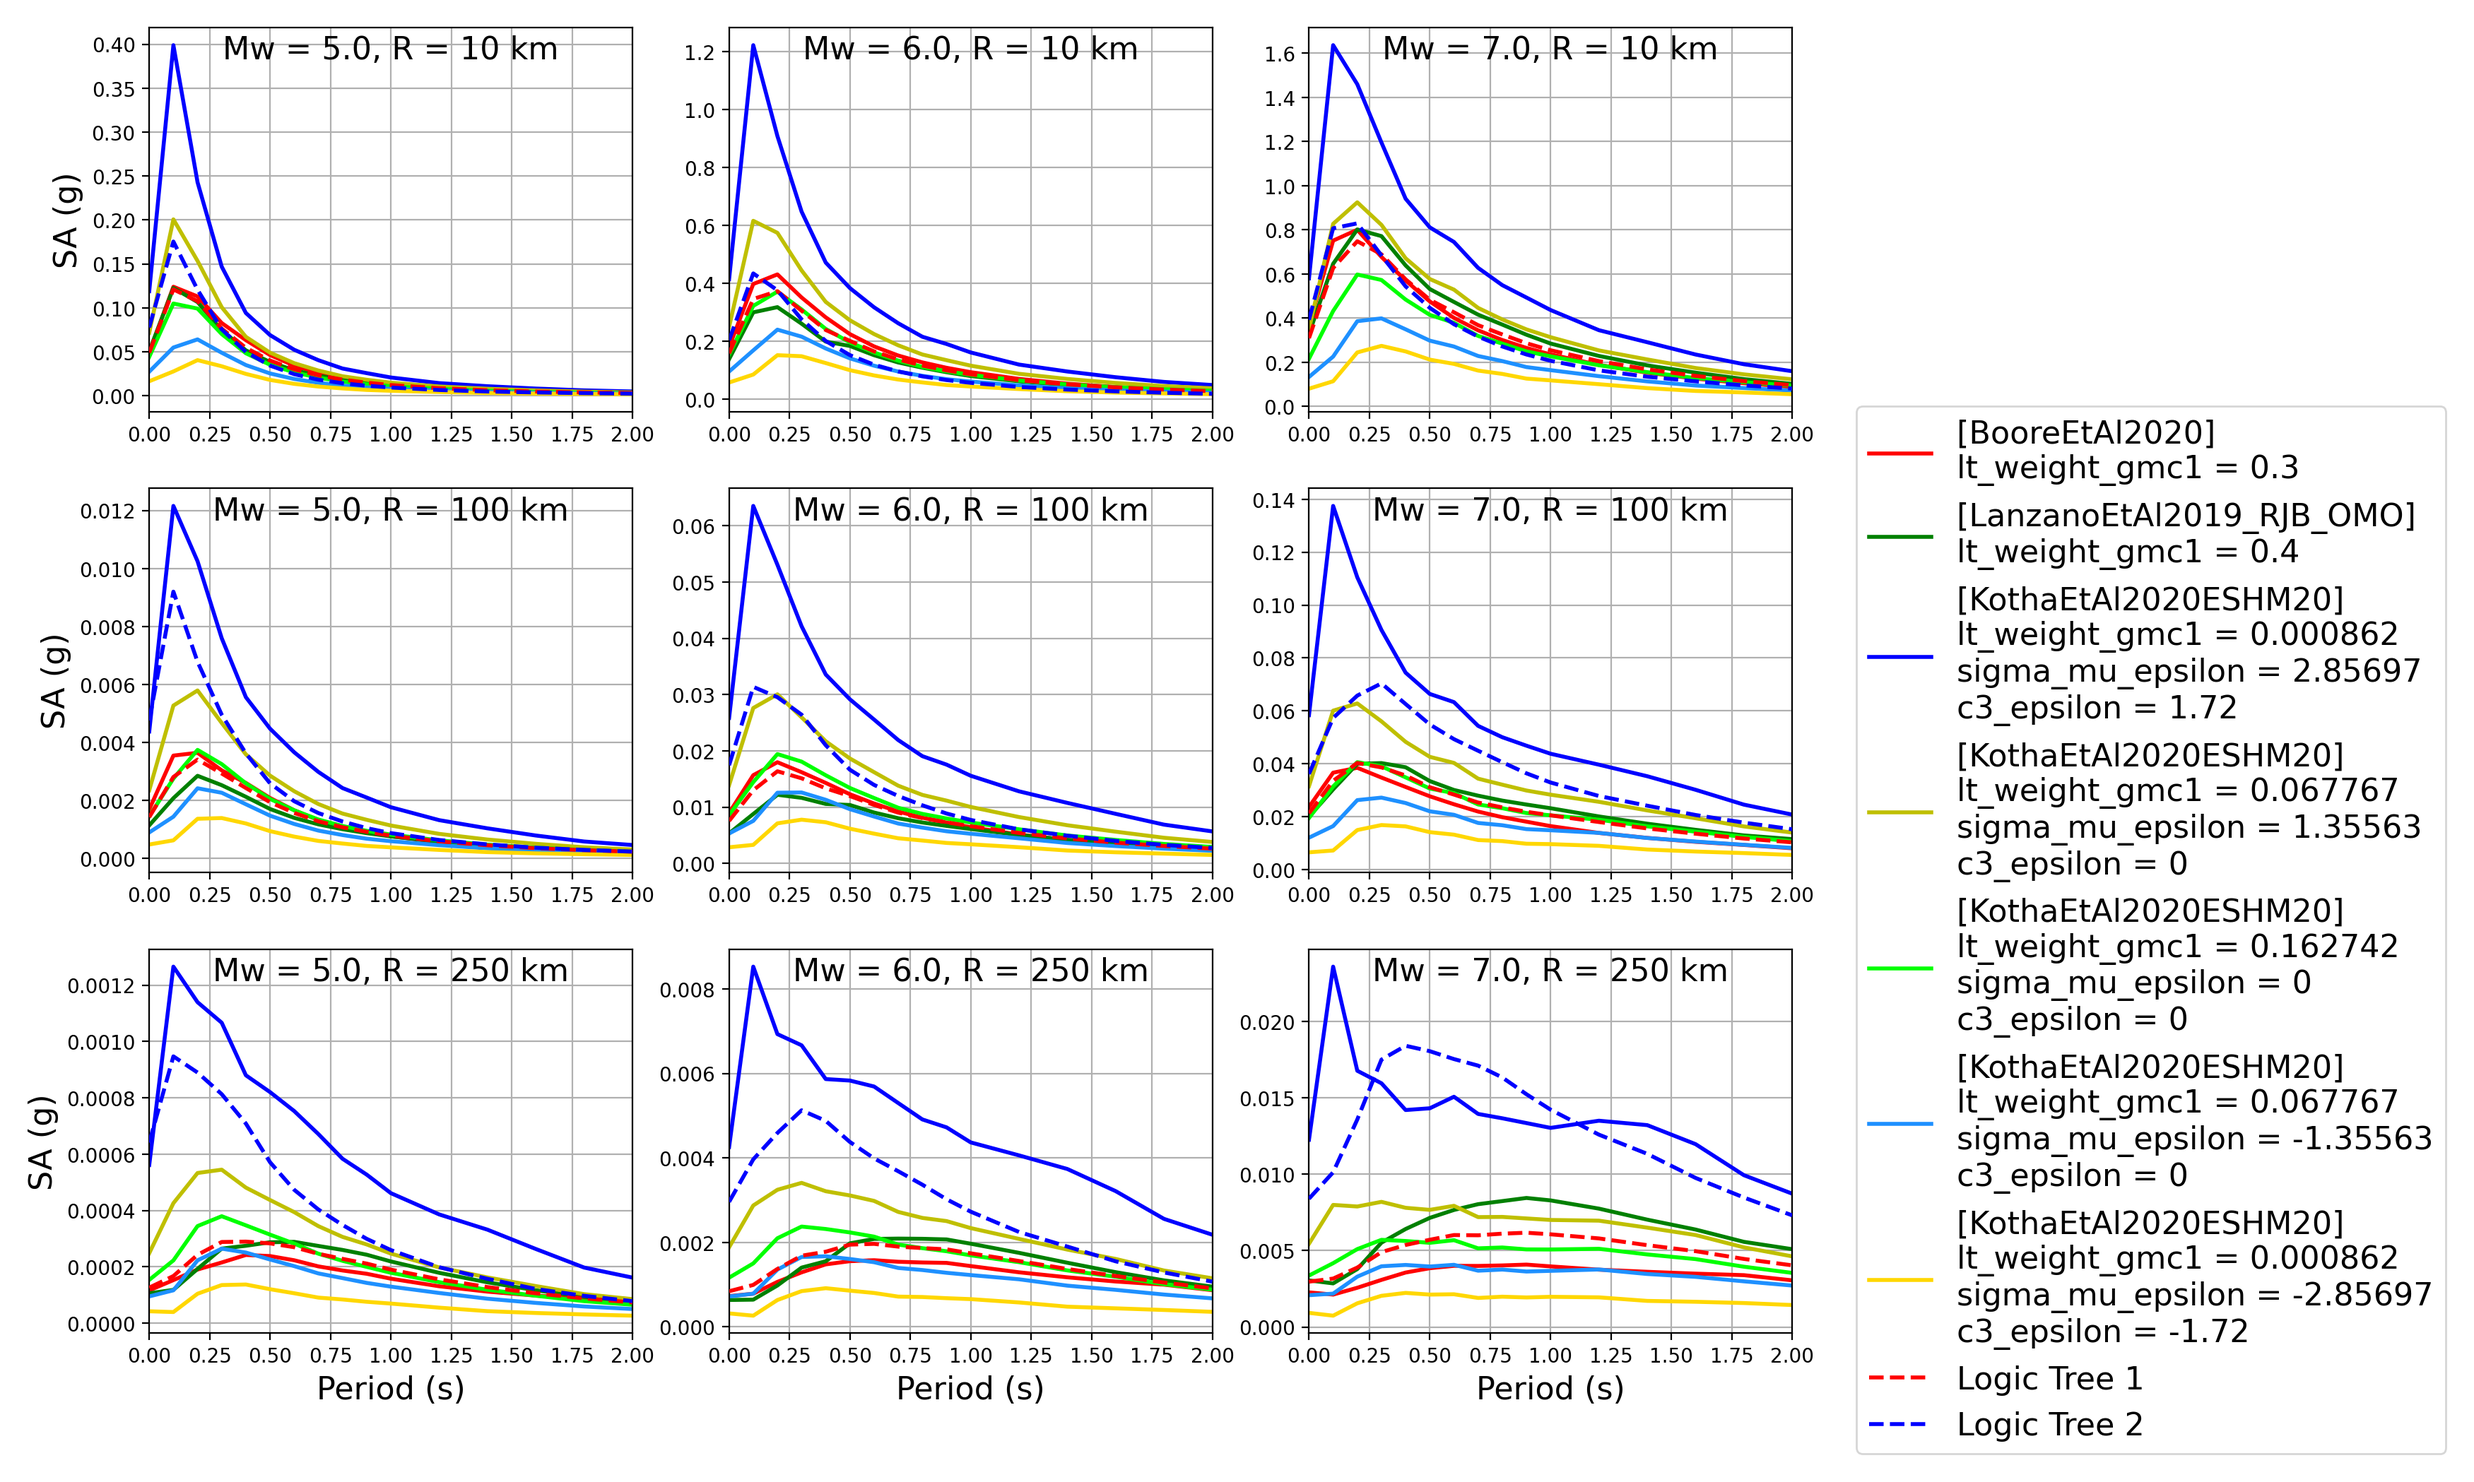
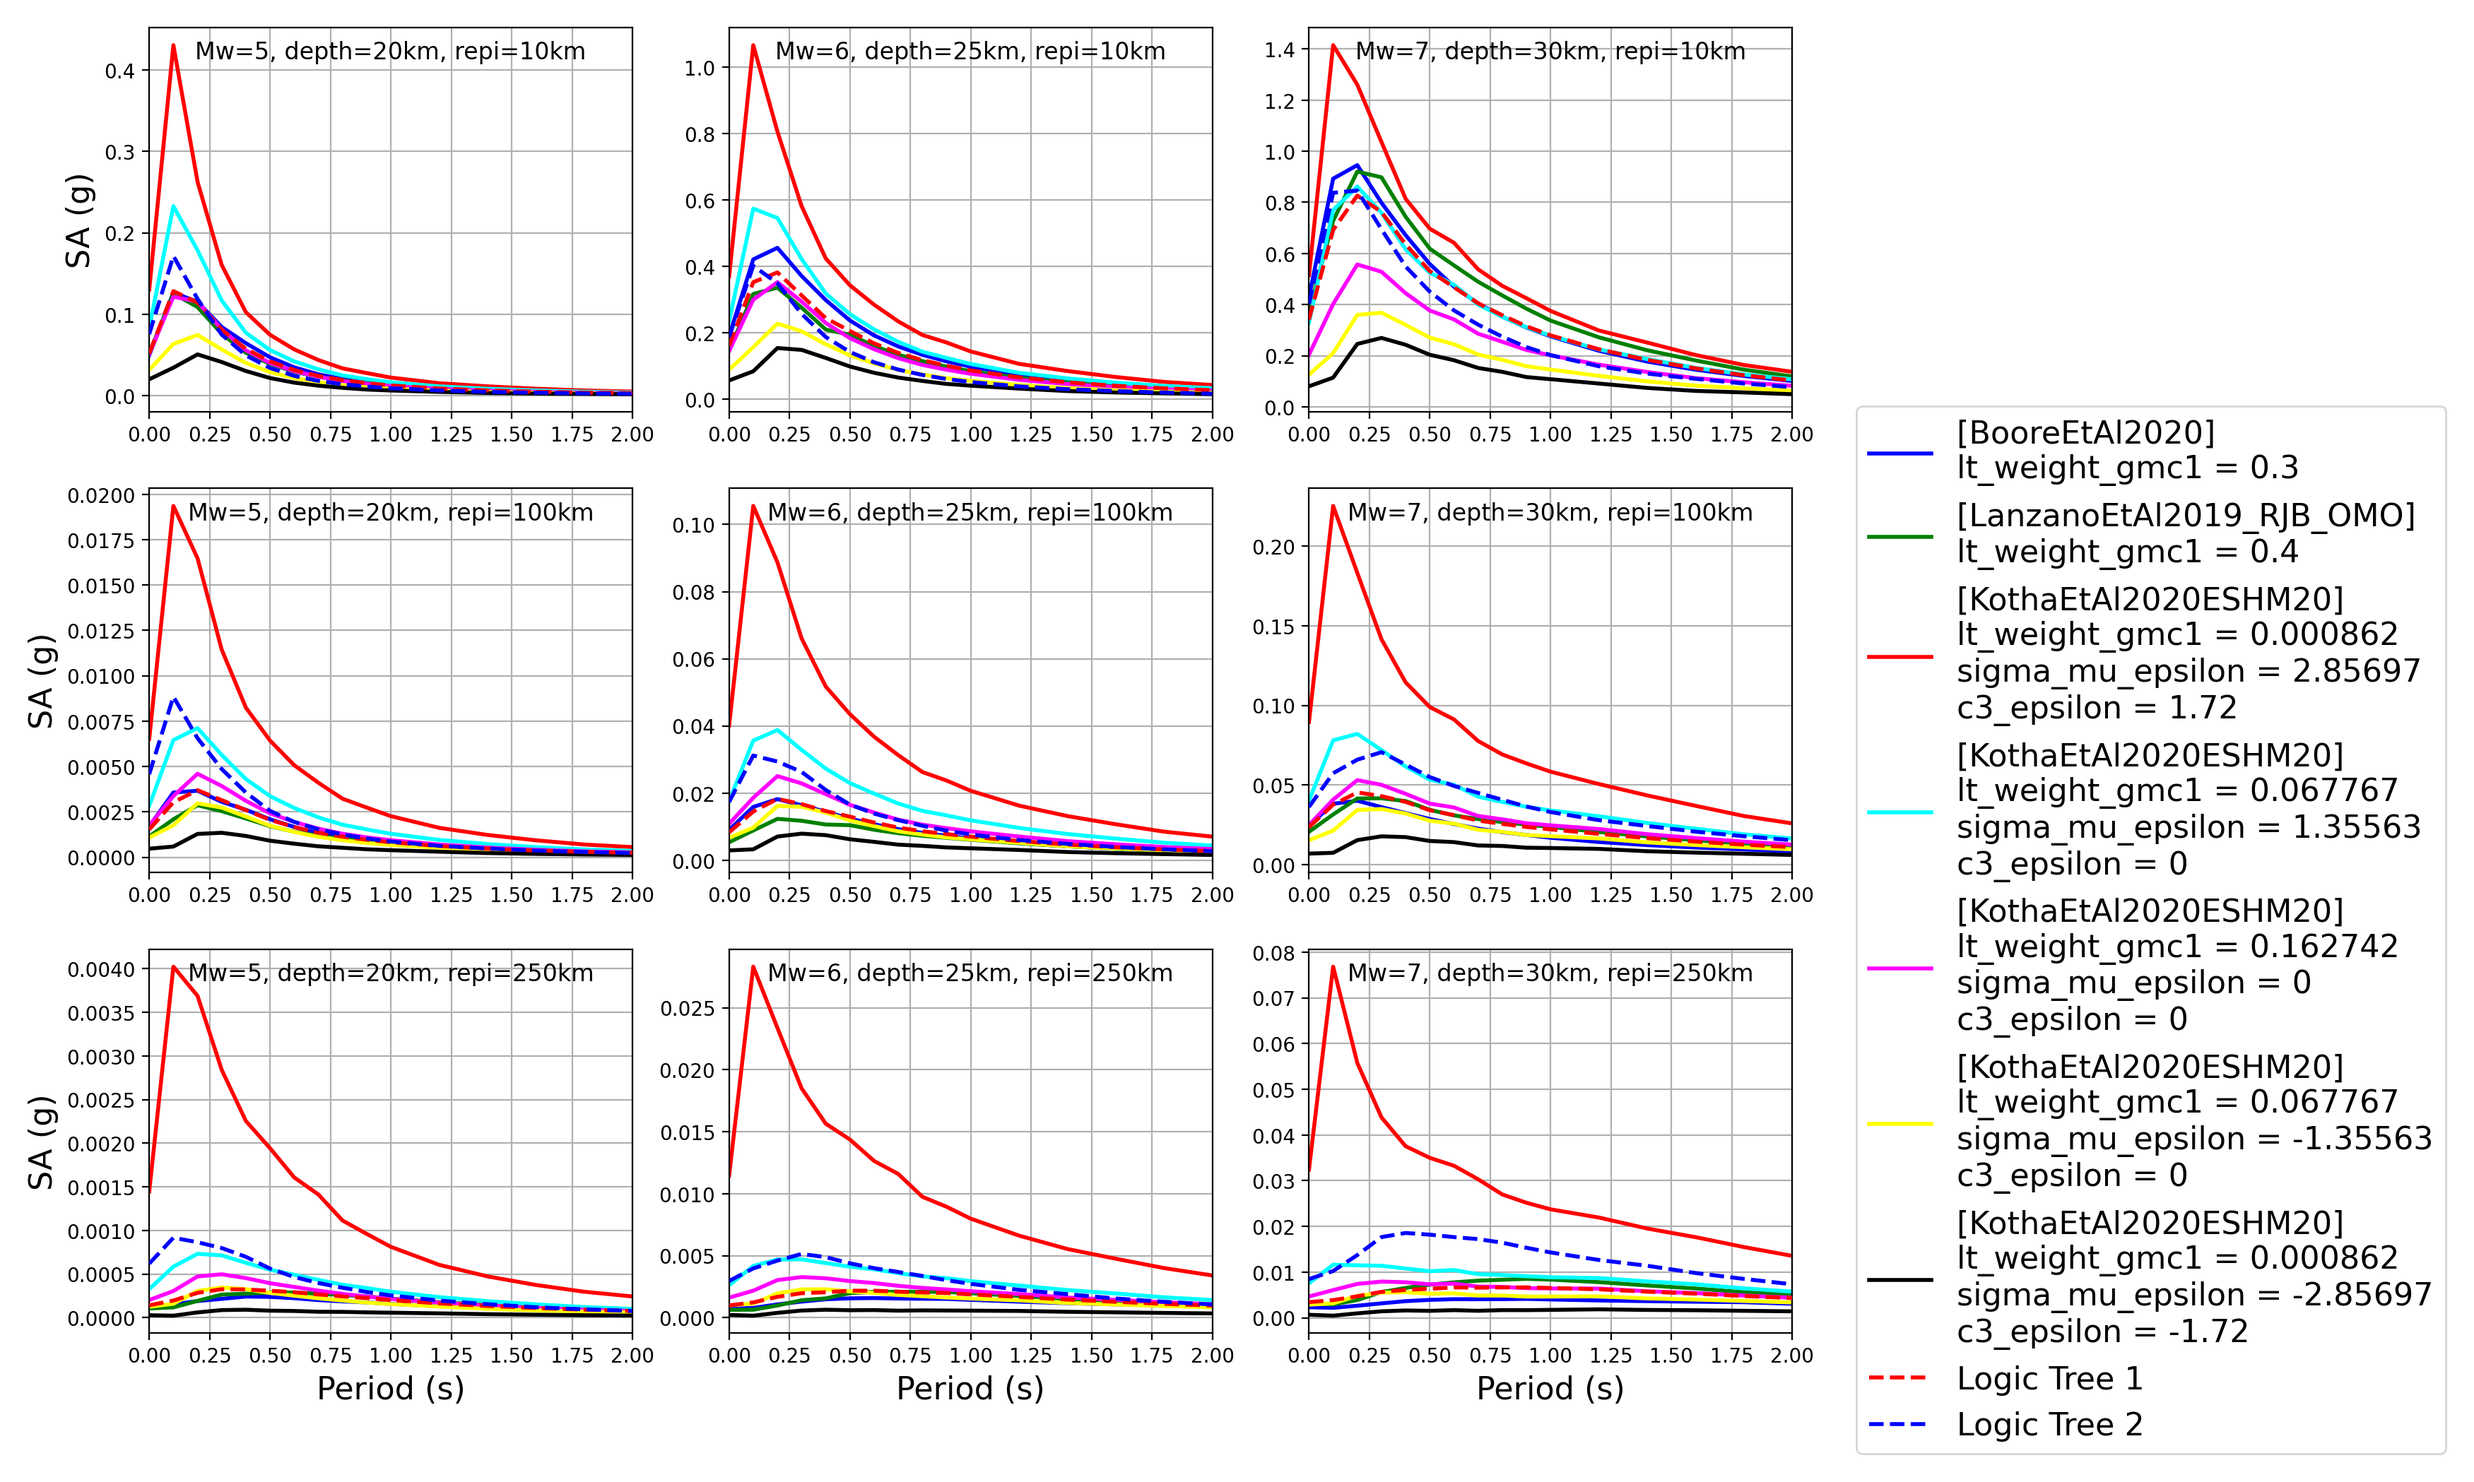
add depth to title of spectra

diff --git a/openquake/smt/comparison/utils_compare_gmpes.py b/openquake/smt/comparison/utils_compare_gmpes.py
@@ -377,7 +377,7 @@ def plot_spectra_util(config, output_directory, obs_spectra_fname):
                                      st_id)
                 
                 # Update plots
-                update_spectra_plots(ax1, m, dist, n, l, config.dist_list, config.dist_type)
+                update_spectra_plots(ax1, m, depth_g, dist, n, l, config.dist_list, config.dist_type)
             
             # Plot logic trees if required
             for idx_gmc, gmc in enumerate(gmc_weights):
@@ -750,7 +750,7 @@ def plot_matrix_util(imt_list, gmpe_list, mtxs, namefig, mtxs_type):
 
     # Remove final plot if not required
     if len(imt_list) >= 3 and len(imt_list)/2 != int(len(imt_list)/2):
-        ax = axs2[np.unravel_index(n+1, (nrows, ncols))]
+        ax = axs[np.unravel_index(n+1, (nrows, ncols))]
         ax.set_visible(False)
 
     # Save
@@ -1430,12 +1430,13 @@ def plot_obs_spectra(ax1,
                  label=obs_string)    
         
         
-def update_spectra_plots(ax1, m, i, n, l, dist_list, dist_type):
+def update_spectra_plots(ax1, m, depth_g, i, n, l, dist_list, dist_type):
     """
     Add titles and axis labels to spectra plots
     """
     # Title
-    ax1.set_title(f'Mw={m}, {dist_type}={i}km', fontsize=16, y=1.0, pad=-16)
+    ax1.set_title(f'Mw={m}, depth={depth_g}km, {dist_type}={i}km',
+                  fontsize=12, y=1.0, pad=-16)
 
      # Bottom row only
     if n == len(dist_list)-1:
